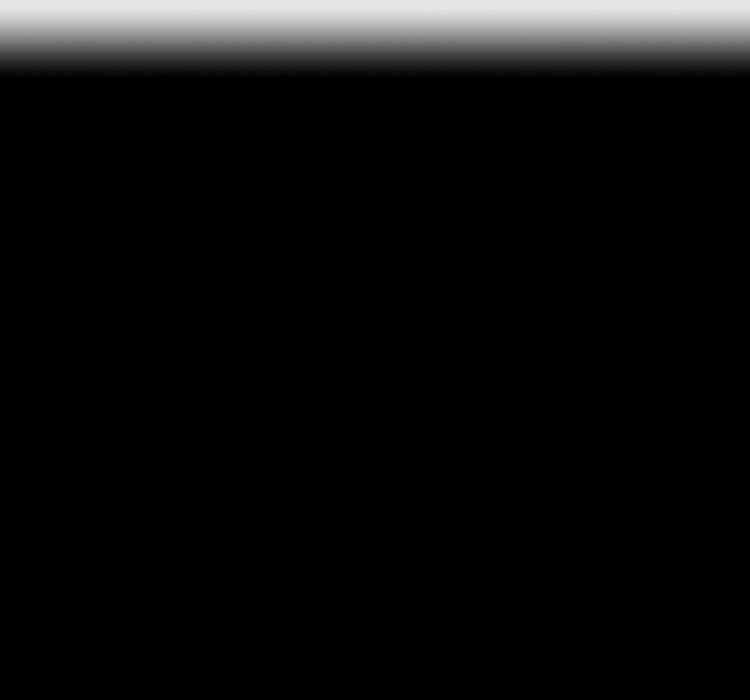
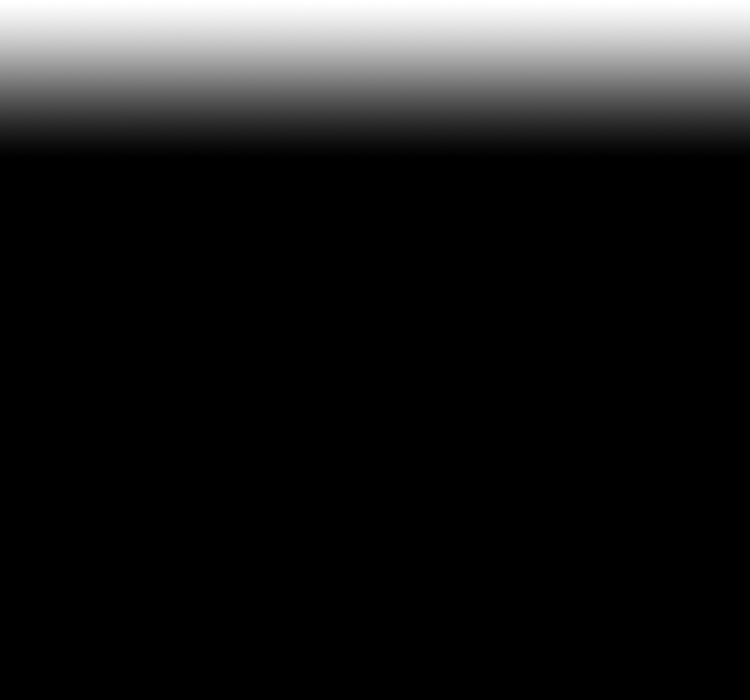
修改文字大小，修改mask图片

Changed region(s): [[0.0, 0.0, 1.0, 0.21]]

diff --git a/index.html b/index.html
@@ -334,7 +334,7 @@
                     <p class="question">以下哪些因素是您选择移动支付产品的主要考虑因素？<span>（可多选，最多选3项）</span></p>
                     <div class="ansBox">
                         <div class="ans ans2">习惯</div>
-                        <div class="ans ans2">优惠/促销活动多</div>
+                        <div class="ans ans2 small">优惠/促销活动多</div>
                         <div class="ans ans2">安全</div>
                         <div class="ans ans2">赔付保障</div>
                         <div class="ans ans2">便捷</div>
@@ -352,7 +352,7 @@
                     <p class="question">以下主流移动支付产品，您最优先（较偏向）使用哪一项？<span>（单选）</span></p>
                     <div class="ansBox">
                         <div class="ans ans3">二维码支付</div>
-                        <div class="ans ans3" style="padding-top:0.07rem;">
+                        <div class="ans ans3 two">
                             ApplePay、HuaweiPay、SamsungPay<br>等手机闪付（手机PAY系列）</div>
                         <div class="ans ans3">手机网页中选择银行卡快捷支付</div>
                     </div>
@@ -420,10 +420,10 @@
                             <div class="swiper-slide">
                                 <div class="ansBox">
                                     <img src="images/QABox/1/t1.png" class="tips">
-                                    <div class="ans ans2 two" style="font-size:0.2rem;">商场、便利店及餐饮类等中大型实体商户</div>
-                                    <div class="ans ans2 two" style="font-size:0.2rem;">小摊贩、菜场、水果店等小型实体商店</div>
+                                    <div class="ans ans2 two small">商场、便利店及餐饮类等中大型实体商户</div>
+                                    <div class="ans ans2 two small">小摊贩、菜场、水果店等小型实体商店</div>
                                     <div class="ans ans2 two">乘坐地铁、公交车、出租车</div>
-                                    <div class="ans ans2">停车场、ETC缴费</div>
+                                    <div class="ans ans2 small">停车场、ETC缴费</div>
                                     <div class="ans ans4">挂号、买药等医院、医疗支付</div>
                                 </div>
                             </div>
@@ -439,7 +439,7 @@
                                 <div class="ansBox">
                                     <img src="images/QABox/1/t3.png" class="tips">
                                     <div class="ans ans4">给他人转账汇款</div>
-                                    <div class="ans ans4 two">购买理财产品<br>（包括股票，国债，基金，保险，P2P网贷等）</div>
+                                    <div class="ans ans4 two small">购买理财产品<br>（包括股票，国债，基金，保险，P2P网贷等）</div>
                                     <div class="next center"></div>
                                 </div>
                             </div>
@@ -466,8 +466,8 @@
                         <div class="ans ans5">3</div>
                         <div class="ans ans5">2</div>
                         <div class="ans ans5">1</div>
-                        <div class="ans ans2 two"
-                            style="margin-right: 1.1rem;position: relative;left: -0.16rem">
+                        <div class="ans ans2 two small"
+                            style="margin-right: 1.1rem;position: relative;left: -0.16rem;">
                             我在这一场景下，<br>没有用过移动支付</div>
                     </div>
                 </div>
@@ -515,7 +515,7 @@
                         请问您经常使用的这些验<br>证方式中，您认为最安全<br>的验证方式是？<span>（单选）</span></p>
                     <div class="ansBox">
                         <div class="ans ans2">银行卡密码或支付密码</div>
-                        <div class="ans ans2">指纹、刷脸、声波等生物识别方式</div>
+                        <div class="ans ans2 small">指纹、刷脸、声波等生物识别方式</div>
                         <div class="ans ans2">使用手机动态验证码</div>
                         <div class="ans ans2">U盾、动态密码器等安全设备</div>
                     </div>
@@ -616,7 +616,7 @@
                                     <div class="ans ans2 two">跟换新手机时，不解绑银行卡，<br>删除存留的敏感信息</div>
                                     <div class="ans ans2">有优惠促销的二维码都会尝试扫</div>
                                     <div class="ans ans2">会主动安装手机跳出的不明文件</div>
-                                    <div class="ans ans2 two">在网站填写卡号、有效期、<br>密码等支付信息，不会确认网址真实性</div>
+                                    <div class="ans ans2 two small">在网站填写卡号、有效期、<br>密码等支付信息，不会确认网址真实性</div>
                                 </div>
                             </div>
                             <div class="swiper-slide">
@@ -632,7 +632,7 @@
                                     </div>
                                     <div class="ans ans4 two sp" style="font-size: 0.2rem;line-height: 1.2;">
                                         根据短信或弹窗<br>链接下载APP</div>
-                                    <div class="ans ans3 sp">网站登录习惯设置“记住密码，自动登录”</div>
+                                    <div class="ans ans3 sp two">网站登录习惯设置<br>“记住密码，自动登录”</div>
                                     <div class="ans ans3 sp">如果网站需要，会填写个人敏感信息</div>
                                 </div>
                             </div>
@@ -641,7 +641,7 @@
                                     <div class="ans ans3 two sp">收到过银行信用卡提额短信，<br>并提供了个人身份信息</div>
                                     <div class="ans ans3 two sp">向他人提供过自己的<br>银行卡或收款码</div>
                                     <div class="ans ans3 two sp">不清楚正在使用的移动支付APP<br>有哪些账户安全服务功能或内容</div>
-                                    <div class="ans ans4 sp" >玩过网络博彩
+                                    <div class="ans ans4 sp small" >玩过网络博彩
                                     </div>
                                     <div class="ans ans4 sp two" >
                                         以上方式<br>都没有</div>
@@ -667,21 +667,21 @@
                             <div class="swiper-slide">
                                 <div class="ansBox">
                                     <img src="images/QABox/3/t1.png" class="tips">
-                                    <div class="ans ans1">收到钓鱼链接，填写了银行卡信息（信息泄漏）</div>
-                                    <div class="ans ans1" style="font-size: 0.22rem;">卡在身上，收到银行短信消费提示（伪卡线上盗刷）</div>
-                                    <div class="ans ans1">安装了不明来源的手机APP（伪冒APP）</div>
-                                    <div class="ans ans1" style="font-size: 0.22rem;">手机被盗或丢失后银行卡内资金被盗（手机设备盗用）</div>
+                                    <div class="ans ans1 small">收到钓鱼链接，填写了银行卡信息（信息泄漏）</div>
+                                    <div class="ans ans1 small" style="font-size: 0.22rem;">卡在身上，收到银行短信消费提示（伪卡线上盗刷）</div>
+                                    <div class="ans ans1 small">安装了不明来源的手机APP（伪冒APP）</div>
+                                    <div class="ans ans1 small" style="font-size: 0.22rem;">手机被盗或丢失后银行卡内资金被盗（手机设备盗用）</div>
                                 </div>
                             </div>
                             <div class="swiper-slide">
                                 <div class="ansBox">
                                     <img src="images/QABox/3/t2.png" class="tips">
-                                    <div class="ans ans1">因扫不明二维码后导致资金遭被盗（二维码欺诈）</div>
+                                    <div class="ans ans1 small">因扫不明二维码后导致资金遭被盗（二维码欺诈）</div>
                                     <img src="images/QABox/3/t3.png" class="tips" style="margin-top:0.1rem;">
                                     <div class="ans ans1 two">冒充网络客服退款、刷单/兼职陷阱、<br>信用卡提额提额等情况</div>
-                                    <div class="ans ans1">冒充亲朋好友通过QQ、微信等社交软件要求转账</div>
-                                    <div class="ans ans2" style="position: relative;left: -0.72rem;font-size: 0.2rem;">
-                                        以上情况都没遇到过
+                                    <div class="ans ans1 small">冒充亲朋好友通过QQ、微信等社交软件要求转账</div>
+                                    <div class="ans ans2 two two" style="position: relative;left: -0.72rem;">
+                                        以上情况<br>都没遇到过
                                     </div>
                                     <div style="position: relative;left: 0.54rem;top: -0.05rem;" class="next inline">
                                     </div>
@@ -716,13 +716,13 @@
                     <p class="question">您在遭遇诈骗中/后，有采取过以下哪些措施？ <span>（可多选）</span></p>
                     <div class="ansBox">
                         <div class="ans ans2 two">拨打银行客服挂失卡片</div>
-                        <div class="ans ans2 two" style="font-size: 0.2rem">拨打第三方支付机构客服进行账户挂失</div>
+                        <div class="ans ans2 two small">拨打第三方支付机构客服进行账户挂失</div>
                         <div class="ans ans2 two">在ATM机上做一笔交易留作证据</div>
                         <div class="ans ans2">拨打110报警</div>
-                        <div class="ans ans2 two" style="font-size: 0.2rem">在第三方支付软件上进行账户挂失和注销</div>
+                        <div class="ans ans2 two small">在第三方支付软件上进行账户挂失和注销</div>
                         <div class="ans ans2 two">去相关政府网站进行举报</div>
                         <div class="ans ans2 two">去投保公司进行损失索赔</div>
-                        <div class="ans ans2">未采取任何措施</div>
+                        <div class="ans ans2 small">未采取任何措施</div>
                         <div class="next center"></div>
                     </div>
                 </div>
@@ -736,7 +736,7 @@
                     <div class="ansBox">
                         <div class="ans ans2">自己</div>
                         <div class="ans ans2">银行</div>
-                        <div class="ans ans2">第三方支付机构</div>
+                        <div class="ans ans2 small">第三方支付机构</div>
                         <div class="ans ans2">商户</div>
                         <div class="ans ans2">保险公司</div>
                         <div class="ans ans2 two">公安机关协<br>助追回损失</div>
@@ -763,7 +763,7 @@
                     </div>
                     <p class="question">您未购买银行卡/账户相关保险的主要原因是什么？ <span>（可多选）</span></p>
                     <div class="ansBox">
-                        <div class="ans ans2 two">银行已配置银行卡安全险，无需购买 </div>
+                        <div class="ans ans2 two small">银行已配置银行卡安全险，无需购买 </div>
                         <div class="ans ans2 two">账户被盗的概率低，不用购买</div>
                         <div class="ans ans2 two">保费较高<br>不想购买</div>
                         <div class="ans ans2 two">不知道银行卡安全险的购买渠道 </div>

diff --git a/css/index.css b/css/index.css
@@ -197,7 +197,7 @@ img{
 	width: 3.75rem;
 	height: 0.22rem;
 	margin-left: -1.875rem;
-	-webkit-mask: url(../images/loadingBox/mask.png);
+	-webkit-mask: url(../images/loadingBox/mask.png?v=1);
 	-webkit-mask-size: 100% 100%;
 }
 #loadingBox .cont .bar{
@@ -626,20 +626,30 @@ img{
 	height: 0.7rem;
 	text-align: center;
 	color: #fff;
-	padding-top: 0.17rem;
+	padding-top: 0.15rem;
 	box-sizing: border-box;
 	overflow: hidden;
-	font-size: 0.24rem;
+	font-size: 0.3rem;
 	margin-bottom: 0.1rem!important;
+}
+#QABox .ansBox .ans.small{
+	padding-top: 0.21rem;
+	font-size: 0.24rem;
+	padding-top: 0.17rem;
 }
 #QABox .ansBox .ans.sp{
 	padding-top: 0.21rem
 }
-#QABox .two{
-	padding-top: 0.05rem!important;
+#QABox .ansBox .ans.two{
+	padding-top: 0.04rem;
+	font-size: 0.26rem;
 }
-#QABox .two.sp{
-	padding-top: 0.1rem!important;
+#QABox .ansBox .ans.two.small{
+	padding-top: 0.07rem;
+	font-size: 0.22rem;
+}
+#QABox .ansBox .ans.two.sp{
+	padding-top: 0.1rem;
 }
 #QABox .ansBox .next{
 	width: 2rem;
